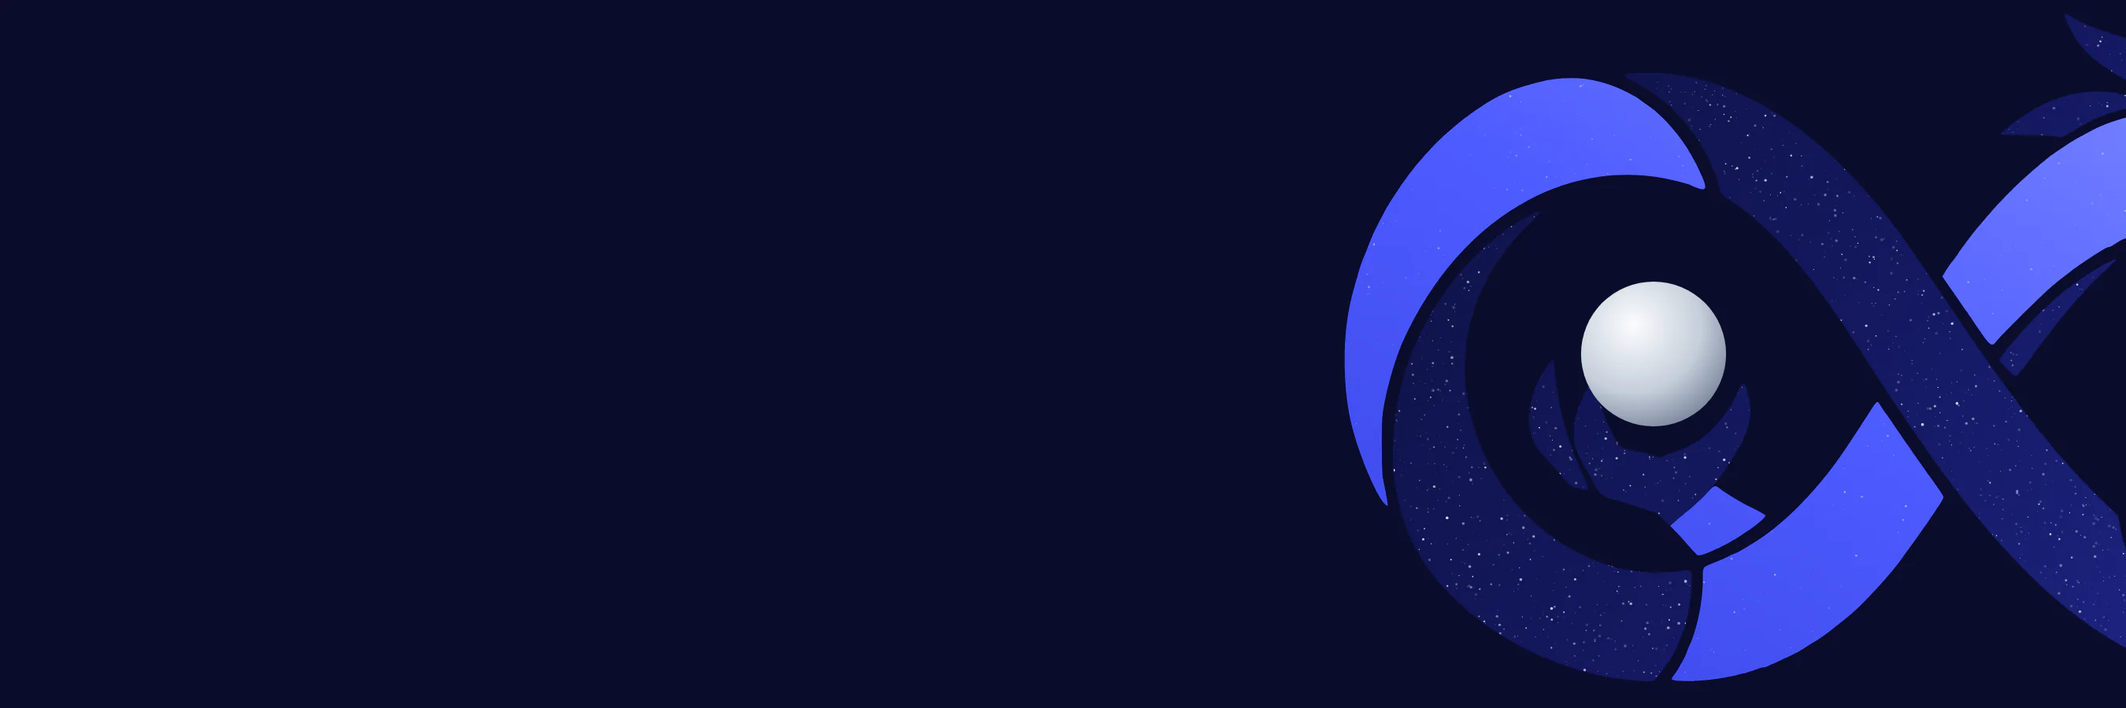
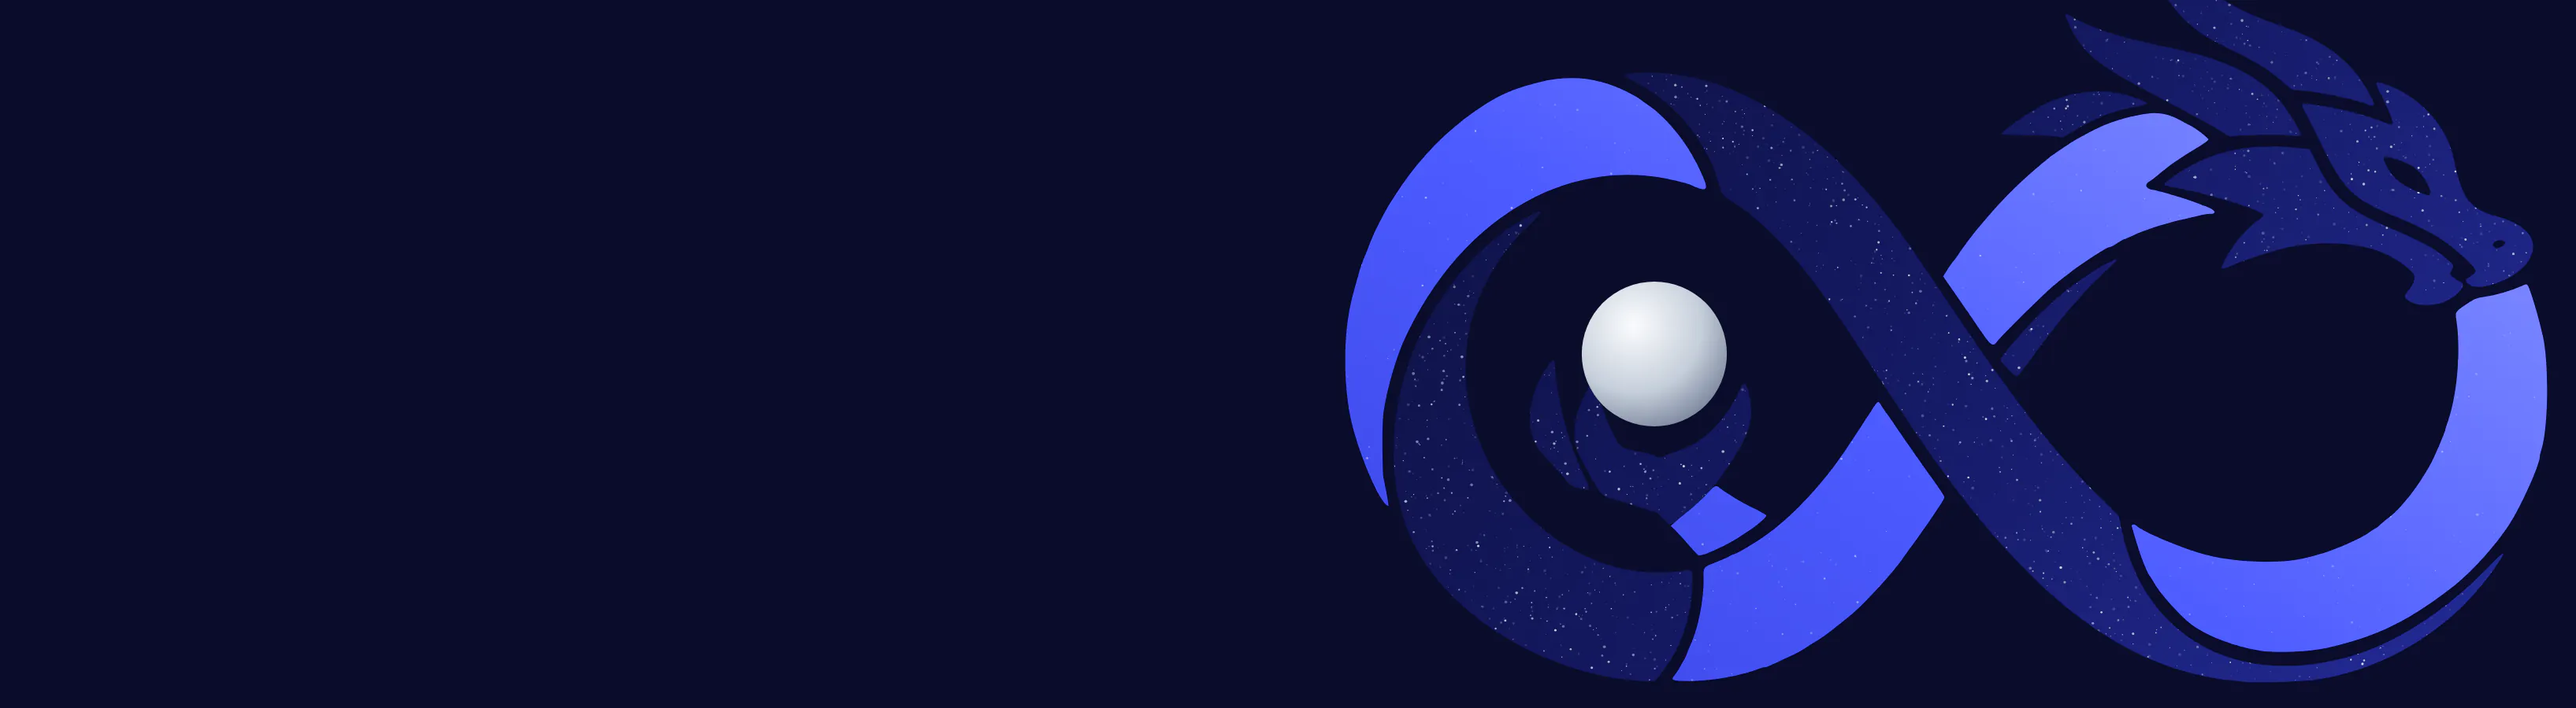
site: publish responsive layout and updated artwork
Update hero and band artwork, align the header and documentation width on
large displays, and use the computed hero placement for the glass backdrop.

Validation: JavaScript syntax, strict MkDocs build, 177-function API
coverage and license policy passed; all three WebP images decode.

Changed region(s): [[0.4978, 0.0, 1.0, 0.9644]]

diff --git a/website/theme/assets/css/llam.css b/website/theme/assets/css/llam.css
@@ -95,7 +95,7 @@
 .ann { display: flex; align-items: center; justify-content: center; gap: 8px; min-height: 36px; padding: 6px 44px; position: relative; background: var(--accent); color: #fff; font-size: 14px; font-weight: 500; text-align: center; }
 .ann button { position: absolute; right: 8px; top: 50%; transform: translateY(-50%); display: grid; place-items: center; width: 28px; height: 28px; border: 0; border-radius: 6px; background: none; color: #fff; cursor: pointer; }
 .ann button:hover { background: rgb(255 255 255 / .16); }
-.hd { position: sticky; top: 0; z-index: 10; display: flex; align-items: center; height: var(--hd); padding: 0 24px 0 28px; background: var(--bar); color: #fff; }
+.hd { position: sticky; top: 0; z-index: 10; display: flex; align-items: center; height: var(--hd); padding: 0 max(24px, calc((100% - var(--page-max)) / 2 + 24px)) 0 max(28px, calc((100% - var(--page-max)) / 2 + 28px)); background: var(--bar); color: #fff; }
 .brand { display: flex; align-items: center; margin-right: auto; font-size: 21px; font-weight: 600; letter-spacing: -.01em; }
 .brand-home { display: flex; align-items: center; gap: 10px; }
 .brand img { height: 30px; width: auto; }
@@ -126,7 +126,7 @@
 .btn.line-l:hover { background: rgb(25 25 28 / .05); }
 
 /* Hero */
-.hero { position: relative; overflow: hidden; background: #000 url(../img/hero.webp) center top / 2400px auto no-repeat; color: #fff; }
+.hero { position: relative; overflow: hidden; background: #000 url(../img/hero.webp) center top / 2800px auto no-repeat; color: #fff; }
 .hero-in { position: relative; display: grid; grid-template-columns: minmax(0, 1fr) 352px; gap: 32px; max-width: 1312px; min-height: 688px; margin: 0 auto; padding: 56px 32px 40px; }
 .h-name { margin: 0; font-size: 142px; line-height: 1; font-weight: 600; letter-spacing: -.02em; }
 .h-full { margin: 8px 0 0; color: var(--on-d2); font-size: 18px; line-height: 26px; }
@@ -183,7 +183,7 @@
 .below { margin-top: 28px; }
 
 /* Band */
-.band { position: relative; overflow: hidden; background: #0a0c2c url(../img/band.webp) right center / 1800px auto no-repeat; color: #fff; }
+.band { position: relative; overflow: hidden; background: #0a0c2c url(../img/band.webp) right -380px center / 2180px auto no-repeat; color: #fff; }
 .band-in { max-width: 1312px; margin: 0 auto; padding: 64px 32px; }
 .band h2 { max-width: 620px; margin: 0; font-size: 35px; line-height: 42px; font-weight: 600; letter-spacing: -.01em; }
 .band p { max-width: 560px; margin: 14px 0 0; color: #d4d7ee; font-size: 17px; line-height: 27px; }
@@ -217,7 +217,7 @@
 .state.p { background: rgb(77 91 255 / .1); color: #3441d6; }
 .term { overflow: hidden; border-radius: 12px; background: #0f0f14; color: #d6d6e0; font: 400 12.5px/22px var(--mono); }
 .term-h { display: flex; align-items: center; justify-content: space-between; gap: 12px; height: 40px; padding: 0 18px; border-bottom: 1px solid var(--rule-d); color: var(--on-d2); font: 400 13px var(--sans); }
-.term-b { padding: 14px 18px 18px; overflow: hidden; -webkit-mask-image: linear-gradient(90deg, #000 86%, transparent); mask-image: linear-gradient(90deg, #000 86%, transparent); }
+.term-b { padding: 14px 18px 18px; overflow: hidden; -webkit-mask-image: linear-gradient(90deg, #000 calc(100% - 28px), transparent); mask-image: linear-gradient(90deg, #000 calc(100% - 28px), transparent); }
 .term-b div { white-space: pre; }
 .term-b .hd2 { color: #fff; font-weight: 500; }
 .term-b em { color: var(--accent-l); font-style: normal; }
@@ -248,7 +248,7 @@
 
 /* Docs */
 .doc { background: var(--bg); color: var(--fg); }
-.doc-grid { display: flex; flex-wrap: wrap; align-items: stretch; }
+.doc-grid { display: flex; flex-wrap: wrap; align-items: stretch; width: 100%; max-width: var(--page-max); margin: 0 auto; }
 .side { flex: 0 0 288px; padding: 16px 12px 40px; border-right: 1px solid var(--rule); font-size: 14px; line-height: 20px; }
 .main { flex: 999 1 560px; min-width: 0; display: flex; flex-wrap: wrap; align-items: flex-start; }
 .art { flex: 999 1 560px; min-width: 0; padding: 28px clamp(20px, 4vw, 56px) 72px; }
@@ -379,7 +379,7 @@
 
 
 /* The page */
-:root { --hd: 64px; }
+:root { --hd: 64px; --page-max: 1920px; }
 html { -webkit-text-size-adjust: 100%; -webkit-tap-highlight-color: transparent; scroll-padding-top: calc(var(--hd) + 16px); }
 body { margin: 0; background: var(--bg); color: var(--fg); }
 body.home { background: #000; color: #fff; }
@@ -640,7 +640,7 @@ body.home .ipanel .copy { box-shadow: 0 0 0 12px var(--panel); }
 .hero-in, .why { position: relative; }
 
 /* Not found */
-.lost { display: grid; place-items: center; flex: 1; min-height: 640px; padding: 48px 24px; background: #000 url(../img/hero.webp) center top / 2400px auto no-repeat; color: #fff; }
+.lost { display: grid; place-items: center; flex: 1; min-height: 640px; padding: 48px 24px; background: #000 url(../img/hero.webp) center top / 2800px auto no-repeat; color: #fff; }
 .lost-in { width: 100%; max-width: 560px; padding: 32px; border-radius: 16px; background: rgb(14 16 48 / .72); -webkit-backdrop-filter: blur(22px); backdrop-filter: blur(22px); box-shadow: inset 0 0 0 1px rgb(255 255 255 / .08); }
 .lost h1 { margin: 0; font-size: 72px; line-height: 80px; font-weight: 600; letter-spacing: -.02em; }
 .lost p { margin: 6px 0 20px; color: #d4d7ee; font-size: 17px; line-height: 27px; }
@@ -677,6 +677,16 @@ html:has(dialog[open]) { overflow: hidden; }
 .toast[hidden] { display: none; }
 
 /* The print of a page is its words */
+/* The art keeps its size on big screens. Once the whole mark fits across, it also
+   moves down so its horns clear the top of the hero. */
+@media (min-width: 2560px) {
+  .hero, .lost { background-position: center 125px; }
+}
+/* Past this width the band's art stays beside the copy, not at the screen edge. */
+@media (min-width: 1800px) {
+  .band { background-position: calc(50% + 190px) center; }
+}
+
 @media print {
   .hd, .side, .toc, .toc-m, .ft, .pn, .meta a, .cb-copy, .filter, .ann { display: none !important; }
   .tabbed-block { display: block !important; }
@@ -713,7 +723,7 @@ html:has(dialog[open]) { overflow: hidden; }
   .out { border-left: 0; border-top: 1px solid var(--rule-d); }
   .duo { grid-template-columns: minmax(0, 1fr); gap: 32px; }
   .vcards { grid-template-columns: repeat(2, minmax(0, 1fr)); }
-  .band { background-position: right -900px center; }
+  .band { background-position: right -1280px center; }
 }
 @media (max-width: 960px) {
   :root { --hd: 56px; }
@@ -758,7 +768,7 @@ html:has(dialog[open]) { overflow: hidden; }
   .hd { padding: 0 8px 0 16px; }
   .brand img { height: 26px; }
   .brand { font-size: 19px; }
-  .hero { background: #000 url(../img/hero-phone.webp) -290px 0 / 800px auto no-repeat; }
+  .hero { background: #000 url(../img/hero-phone.webp) -290px 0 / 1200px auto no-repeat; }
   .hero-in { padding: 228px 16px 28px; gap: 0; }
   .h-name { font-size: 96px; }
   .h-full { margin-top: 4px; font-size: 16px; line-height: 24px; }

diff --git a/website/theme/assets/js/home.js b/website/theme/assets/js/home.js
@@ -289,6 +289,7 @@ async function startGlass() {
   if (softwareRenderer()) return;
   const root = document.documentElement;
   const box = $('.hero-top');
+  const hero = $('.hero');
   const canvas = $('#glass');
   const wide = matchMedia('(min-width: 1120px)');
   const plain = matchMedia('(prefers-reduced-transparency: reduce)');
@@ -309,8 +310,10 @@ async function startGlass() {
     context.fillStyle = '#000';
     context.fillRect(0, 0, backdrop.width, backdrop.height);
     context.imageSmoothingQuality = 'high';
-    const width = 2400 * dpr;
-    context.drawImage(art, Math.round((backdrop.width - width) / 2), 0, width, width * art.naturalHeight / art.naturalWidth);
+    const style = getComputedStyle(hero);
+    const width = parseFloat(style.backgroundSize) * dpr;
+    const top = parseFloat(style.backgroundPositionY) * dpr;
+    context.drawImage(art, Math.round((backdrop.width - width) / 2), top, width, width * art.naturalHeight / art.naturalWidth);
   };
   paintBackdrop();
 
